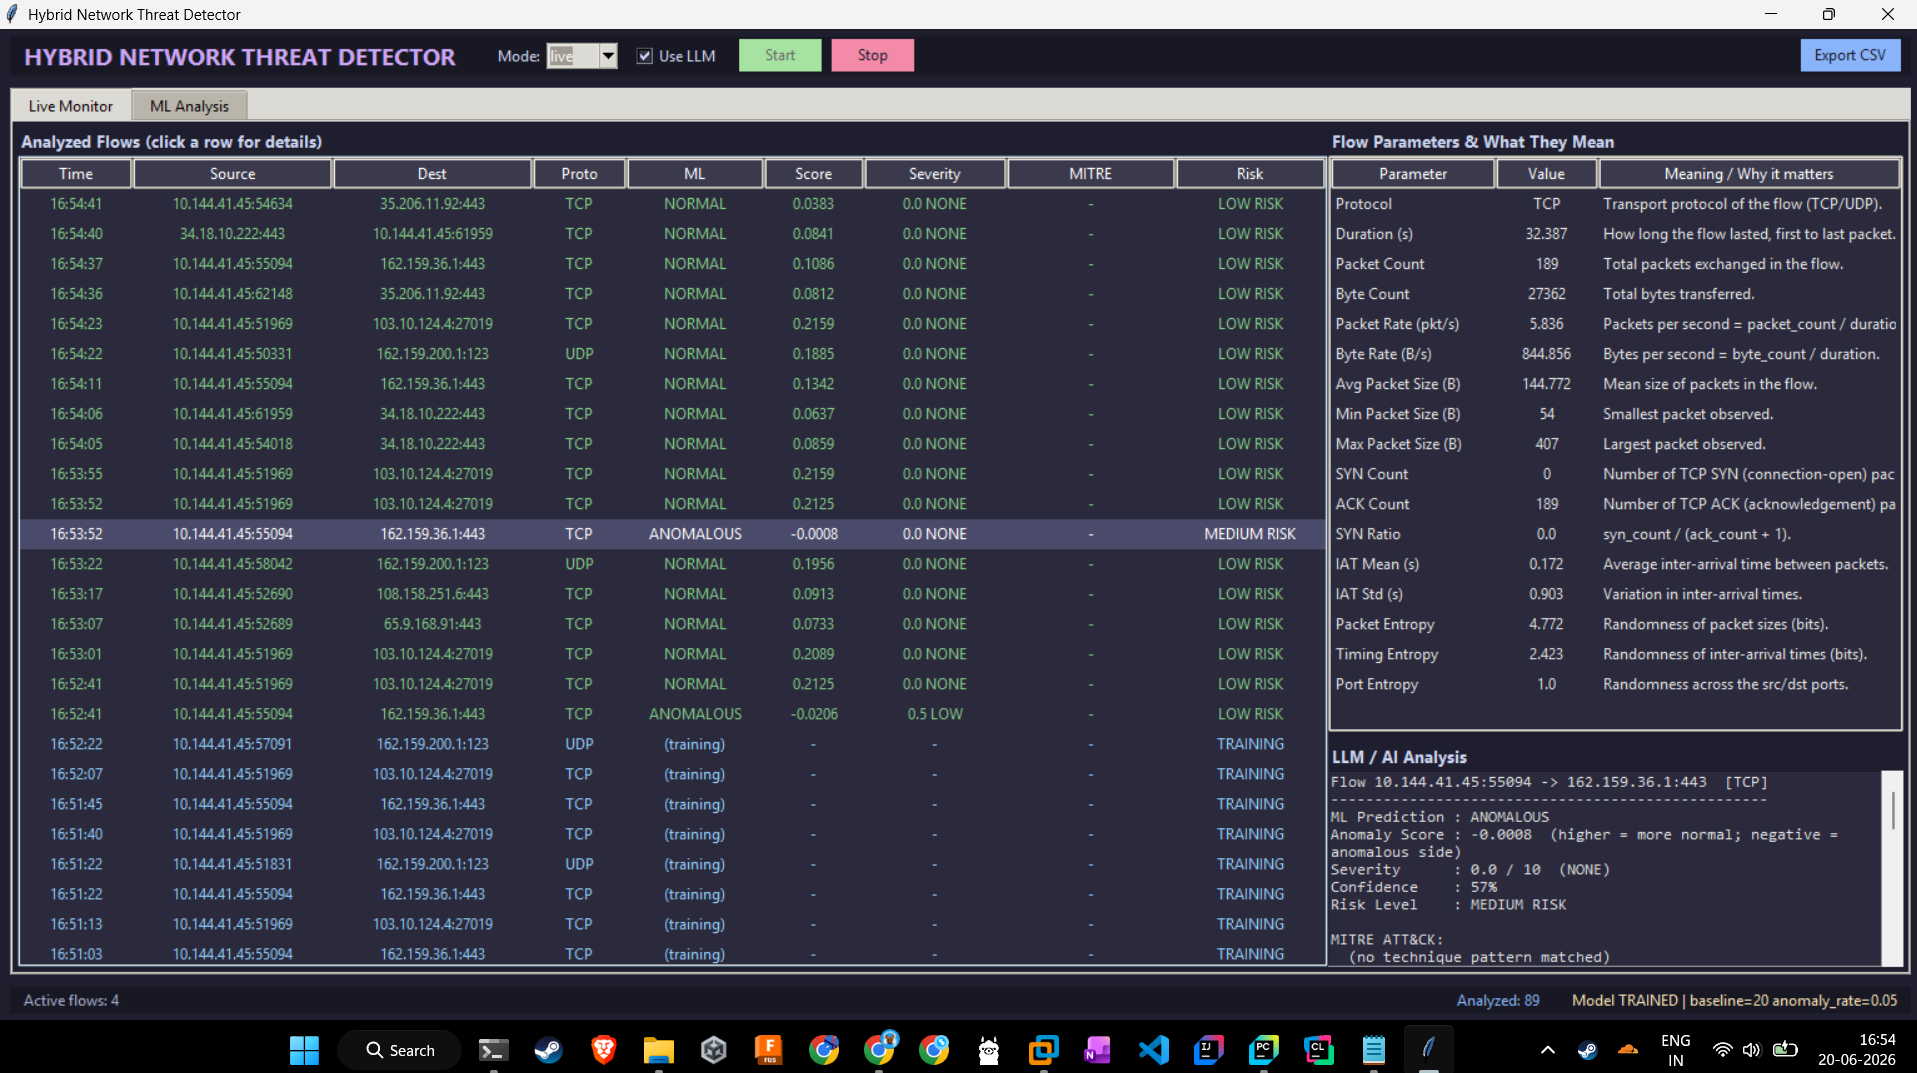
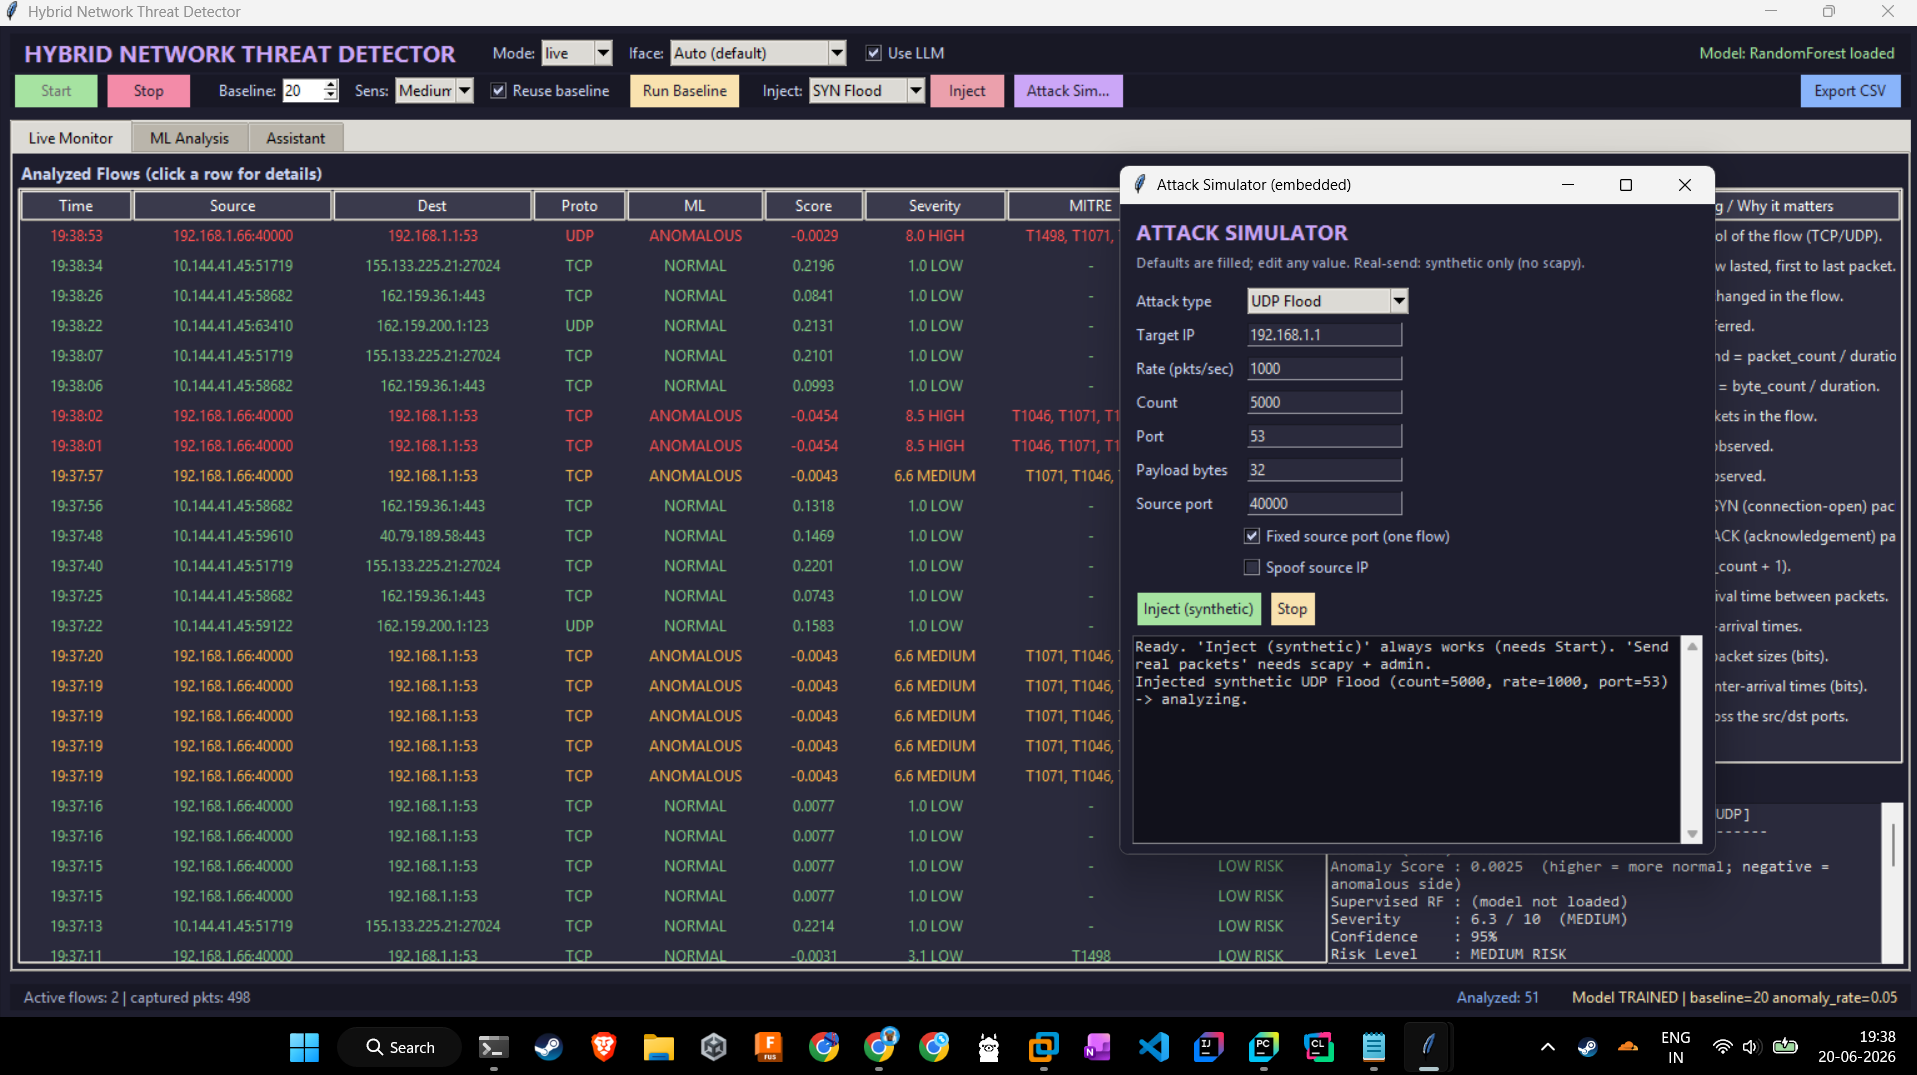
IMAGES,README

diff --git a/README.md b/README.md
@@ -1,7 +1,7 @@
 # Hybrid ML + LLM Network Threat Analyzer
 
 <p align="center">
-  <img src="demo/img1.png" width="90%">
+  <img src="demo/img3.png" width="90%">
 </p>
 
 <p align="center">
@@ -25,7 +25,7 @@ The application provides an interactive desktop dashboard capable of monitoring 
 ## Dashboard
 
 <p align="center">
-<img src="demo/img3.png" width="90%">
+<img src="demo/img4.png" width="90%">
 </p>
 
 ## ML Analysis
